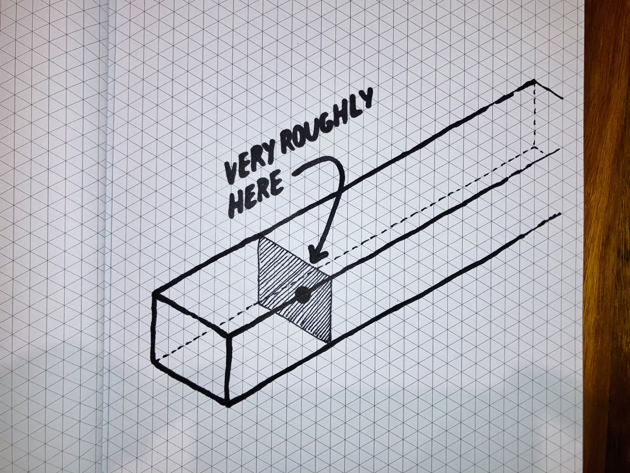
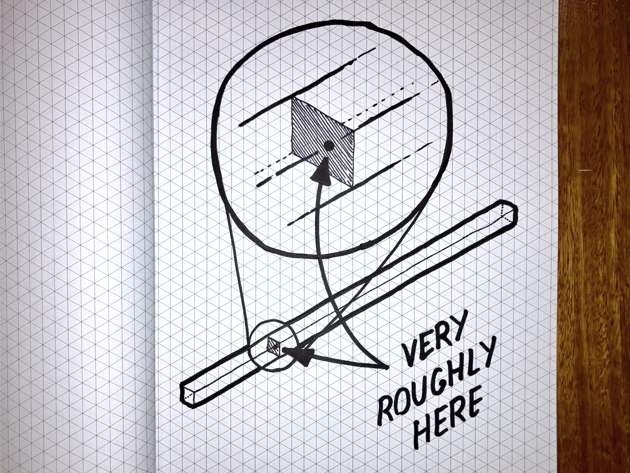
Chip chip chip

diff --git a/bradparker.com/usr/local/src/bradparker.com/site/content/posts/2024-04-23-cracking-open-the-window-to-the-cosmos-of-combinatorics.md b/bradparker.com/usr/local/src/bradparker.com/site/content/posts/2024-04-23-cracking-open-the-window-to-the-cosmos-of-combinatorics.md
@@ -773,7 +773,7 @@ To demonstrate, here's a two dimensional space of possibilities. Perhaps imagine
 
 ![Colourful marbles arranged on a five by five grid. The columns and rows are numbered, zero to four. The first row is red, the second row is orange, the third row is yellow, the fourth row is green and the fifth row is blue.](/content/posts/cracking-open-the-window-to-the-cosmos-of-combinatorics/assets/images/spaces/5x5-space-1-small.webp)
 
-Because this shape doesn't go on forever, it has a boundary, we can flatten two dimensions into one by placing each row end to end. We can turn a rectangle into a line. I imagine it a little like the following.
+Because this shape doesn't go on forever (it's finite) and we're never going to split a marble into some portion (they're discrete) we can flatten two dimensions into one by placing each row end to end. We can turn a rectangle into a line. I imagine it a little like the following.
 
 ![Colourful marbles, arranged on a mostly five by five grid. The first row is ten marbles wide, the second row is missing, it was moved from to the end of the first row. The columns are numbered, zero to nine. The rows are numbered zero to four. The first row is red and orange, the third row is yellow, the fourth row is green and the fifth row is blue.](/content/posts/cracking-open-the-window-to-the-cosmos-of-combinatorics/assets/images/spaces/5x5-space-2-small.webp)
 
@@ -815,21 +815,15 @@ Because the $y$ dimension will now always be 0 we can ignore it which allows us 
 
 If we unfold the four dimensional shape which contains all the voicings a string quartet can play by combining the two violins into one dimension we get a three dimensional rectangular prism of these measurements: **Cello** = 46, **Viola** = 41, **Violins** = 2,601. Within which Beethoven's four notes (E4, F4, G#4 and A4) can be found at **Cello** = 28, **Viola** = 17, **Violins** = 677.
 
-<figure>
+![A skinny and short but deep rectangular prism drawin in a grid lined notebook with a black dot drawn roughly a quarter along the depth, roughly halfway along the width, and roughly halfway up the height. The section with the dot also has a zoomed in copy drawn above, to better show where it is in terms of the height and width.](/content/posts/cracking-open-the-window-to-the-cosmos-of-combinatorics/assets/images/spaces/prism-hand-drawn.webp)
 
-  ![A deep rectangular prism drawin in a grid lined notebook with a black dot drawn roughly a quarter along the depth, roughly halfway along the width, and roughly halfway up the height.](/content/posts/cracking-open-the-window-to-the-cosmos-of-combinatorics/assets/images/spaces/prism-hand-drawn.webp)
-
-  <figcaption>
-
-  A rough diagram of the unfolded space of possibilities. The **Violins** demension is scaled by a ratio of 1:10.
-
-  </figcaption>
-
-</figure>
-
-Which in the end could really be nonsense. I don't feel very enlightened by seeing it. Getting to this point, however, has started to led somewhere more sensible.
+Which doesn't feel very enlightening to look at, at least for me. It could be nonsense. Getting to this point, however, has started to lead somewhere sensible.
 
 ### In time
+
+If we can unfold a two dimensional set of possibilities into a one dimensional set of possibilities, and we can unfold a three dimensional set into a two dimensional set, and we can unfold a four dimensional set into a three dimensional set, then we can unfold a four dimensional set of possibilities into a single dimension of possibilities. We can lay all the possibilities out in a line. We can arrange them in some sort of order.
+
+This allows us to turn any four note voicing into a single, unique, number. For example Beethoven's group of four notes (E4, F4, G#4 and A4), which, in the space of string quartet voicings, has the coordinates **Cello** = 28, **Viola** = 17, **Second Violin** = 13, **First Violin** = 14, becomes 1,371,932.
 
 ...
 
